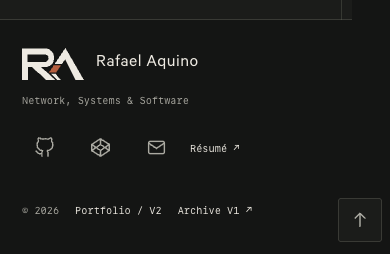
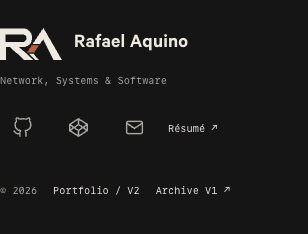
Balance RA identity with the portfolio Calibre wordmark
Preserve the approved geometric RA paths and add the title-case Rafael Aquino wordmark to the header. Share Calibre semibold styling and restrained 0.01em tracking with the footer; adapt the narrow header to keep theme and menu controls clear.

Keep the branding generator synchronized, refresh both-theme desktop/mobile previews, and document typography and QA. Verified seven viewport widths in both themes, zero Axe violations in desktop/mobile scans, generator consistency, theme behavior, site and archive integrity, and whitespace.

diff --git a/index.html b/index.html
@@ -43,7 +43,7 @@
     <a class="skip-link" href="#main-content">Skip to content</a>
     <header class="site-header">
         <div class="navigation wrap">
-            <a class="brand" href="#home" aria-label="Rafael Aquino — Home" title="Rafael Aquino — Home"><svg class="brand-monogram" width="76" height="40" viewBox="0 0 744 384" aria-hidden="true" focusable="false"><path fill="currentColor" fill-rule="evenodd" d="M0 6H276C421 6 421 229 276 229H230L401 383H291L117 227H72V383H0Z M65 79V169H272C332 169 332 79 278 79Z"/><path fill="currentColor" d="M393 191 521 0 743 384H640L517 137 479 191Z"/><path class="offset-connector" fill="var(--brand-accent,#b65f3f)" d="M382 206H469L411 293H324Z"/><path fill="currentColor" d="M350 308H402L465 384H423Z"/></svg></a>
+            <a class="brand" href="#home" aria-label="Rafael Aquino — Home" title="Rafael Aquino — Home"><svg class="brand-monogram" width="76" height="40" viewBox="0 0 744 384" aria-hidden="true" focusable="false"><path fill="currentColor" fill-rule="evenodd" d="M0 6H276C421 6 421 229 276 229H230L401 383H291L117 227H72V383H0Z M65 79V169H272C332 169 332 79 278 79Z"/><path fill="currentColor" d="M393 191 521 0 743 384H640L517 137 479 191Z"/><path class="offset-connector" fill="var(--brand-accent,#b65f3f)" d="M382 206H469L411 293H324Z"/><path fill="currentColor" d="M350 308H402L465 384H423Z"/></svg><span class="brand-wordmark">Rafael Aquino</span></a>
             <p class="nav-context" aria-hidden="true"><span id="nav-location">Portfolio / V2</span><span id="nav-position">Index / 06</span></p>
             <div class="nav-utilities">
                 <button class="theme-toggle" type="button" aria-label="Switch color theme" title="Switch color theme" hidden>

diff --git a/style.css b/style.css
@@ -2212,7 +2212,9 @@ a.social-link:hover, a.social-link:focus-visible { color: var(--accent); backgro
 .brand:hover,.footer-brand:hover { opacity:.82; }
 .footer-brand { display:inline-flex; align-items:center; gap:12px; text-decoration:none; }
 .footer-monogram { display:block; width:62px; height:32px; flex:none; }
-.footer-identity .footer-wordmark { font:18px/1.2 var(--sans); letter-spacing:.025em; }
+/* Pair the geometric symbol with the existing Calibre heading face and quiet tracking. */
+.brand .brand-wordmark,.footer-identity .footer-wordmark { margin:0; color:var(--ink); font:600 20px/1.1 var(--sans); letter-spacing:.01em; text-transform:none; }
+.brand { gap:12px; }
 .footer-identity > span { display:block; margin-top:6px; }
 
 .project-stack-groups { display:grid; gap:20px; }
@@ -2220,3 +2222,12 @@ a.social-link:hover, a.social-link:focus-visible { color: var(--accent); backgro
 
 .case-stack-support { margin-block:4px 8px; }
 .case-stack-support .project-stack-groups { gap:12px; }
+
+/* Keep the full name legible beside the symbol without crowding mobile controls. */
+@media(max-width:600px) {
+  .navigation { grid-template-columns:minmax(0,1fr) auto; column-gap:12px; }
+  .nav-context { display:none; }
+  .brand { gap:8px; }
+  .brand-monogram { width:52px; height:28px; }
+  .brand .brand-wordmark { max-width:66px; font-size:18px; }
+}

diff --git a/images/brand/README.md b/images/brand/README.md
@@ -12,3 +12,5 @@ Recreated as custom paths from Rafael Aquino's supplied Offset reference. The ma
 Run `node scripts/build-branding.mjs` to regenerate SVG masters and identical header/footer path markup; `--check` verifies synchronization. Raster exports were rendered from these SVG masters in Chrome (256px fallback / 360px touch) and downsampled with Pillow Lanczos. The ICO contains all three requested sizes. Re-export rasters when changing the SVG geometry.
 
 The installed mark is static; link hover only changes opacity slightly. Reference screenshots and actual-size previews are in `design/brand-preview/`. No manifest existed; root, V2 redirect, and concept review pages reference the new icons. Archived V1 assets and head tags remain untouched.
+
+Header and footer pair the unchanged geometric symbol with “Rafael Aquino” in the portfolio's existing Calibre heading family, semibold, with restrained `0.01em` letter spacing and title case. Both wordmarks use 20px type; at widths up to 600px the header uses 18px type on two lines, a 52px symbol, and an 8px gap to leave room for the theme and menu controls. The footer keeps its 62px symbol and 12px gap.

diff --git a/QA.md b/QA.md
@@ -1,5 +1,11 @@
 # V2 refinement and version archive QA
 
+## Calibre wordmark refinement — October 1, 2026
+
+- Preserved the approved geometric RA paths and paired both home links with the title-case Calibre semibold wordmark, using `0.01em` tracking. The narrow header stacks the name beside a smaller symbol; the footer keeps its horizontal pairing.
+- Browser checks passed in light/dark themes at 1440, 1024, 768, 601, 600, 390, and 320px: matching heading font, intended weight/spacing, identical header/footer paths, no horizontal overflow, and no overlap with header controls.
+- Refreshed desktop/mobile header/footer previews and visually inspected the pairings. Desktop/mobile Axe checks reported zero violations in both themes; no browser JavaScript errors. Branding/project generation checks, site/archive integrity, theme checks, and whitespace checks passed.
+
 Checked locally in Chrome on 2026-09-30 using a static HTTP server. Automated checks supplement visual and keyboard inspection; they are not accessibility certification.
 
 ## Current portfolio
